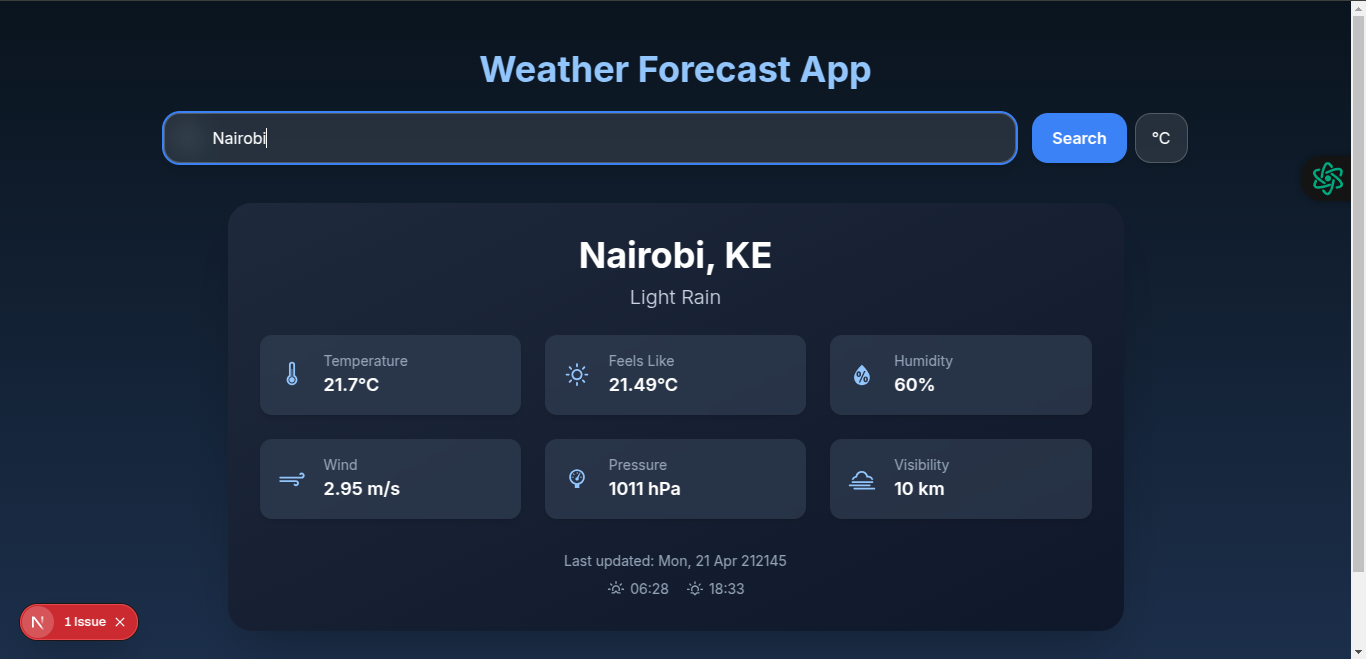
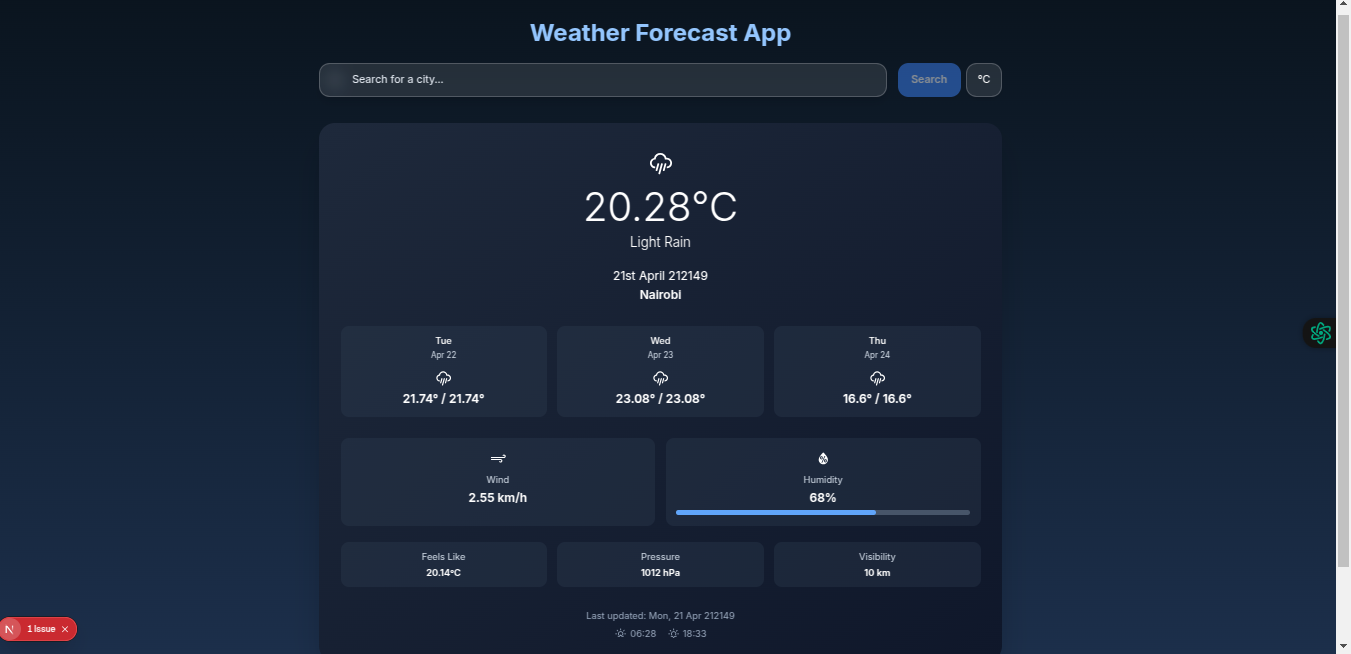
updates

diff --git a/frontend/src/components/ui/WeatherDisplay.tsx b/frontend/src/components/ui/WeatherDisplay.tsx
@@ -1,12 +1,16 @@
 import {
-  WiThermometer,
+  WiDaySunny,
   WiStrongWind,
   WiHumidity,
-  WiBarometer,
-  WiDaySunny,
+  WiRain,
+  WiCloudy,
+  WiDayCloudyHigh,
+  WiNightClear,
+  WiDayHaze,
+  WiSnow,
+  WiThunderstorm,
   WiSunrise,
   WiSunset,
-  WiFog,
 } from "react-icons/wi";
 import type { WeatherResponse } from "@/types";
 
@@ -15,50 +19,121 @@ type Props = {
 };
 
 export default function WeatherDisplay({ weatherData }: Props) {
-  const { current, location } = weatherData;
+  const { current, location, forecast } = weatherData;
+
+  // Function to get weather icon based on condition
+  const getWeatherIcon = (condition: string, size = 48) => {
+    const conditionLower = condition.toLowerCase();
+    if (conditionLower.includes("clear")) return <WiDaySunny size={size} />;
+    if (conditionLower.includes("rain")) return <WiRain size={size} />;
+    if (conditionLower.includes("cloud")) return <WiCloudy size={size} />;
+    if (conditionLower.includes("partly cloudy"))
+      return <WiDayCloudyHigh size={size} />;
+    if (conditionLower.includes("haze") || conditionLower.includes("mist"))
+      return <WiDayHaze size={size} />;
+    if (conditionLower.includes("snow")) return <WiSnow size={size} />;
+    if (conditionLower.includes("thunder"))
+      return <WiThunderstorm size={size} />;
+    return <WiNightClear size={size} />;
+  };
+
+  // Format date as "21st April 2024"
+  const formatDate = (dateString: string) => {
+    const date = new Date(dateString);
+    const day = date.getDate();
+    const month = date.toLocaleString("default", { month: "long" });
+    const year = date.getFullYear();
+
+    // Add ordinal suffix to day
+    const ordinal = (n: number) => {
+      const s = ["th", "st", "nd", "rd"];
+      const v = n % 100;
+      return n + (s[(v - 20) % 10] || s[v] || s[0]);
+    };
+
+    return `${ordinal(day)} ${month} ${year}`;
+  };
 
   return (
-    <div className="mt-8 rounded-3xl p-8 bg-gradient-to-br from-slate-800 to-slate-900 text-white shadow-2xl max-w-4xl mx-auto animate-fade-in-up">
-      <h2 className="text-4xl font-bold text-center mb-2">
-        {location.city}, {location.country}
-      </h2>
-      <p className="text-center text-xl font-light text-slate-300 mb-6 capitalize">
-        {current.description}
-      </p>
+    <div className="rounded-3xl p-8 bg-gradient-to-br from-slate-800 to-slate-900 text-white shadow-2xl w-full max-w-5xl mx-auto animate-fade-in-up">
+      <div className="flex flex-col items-center mb-8">
+        <div className="text-5xl mb-4">
+          {getWeatherIcon(current.description)}
+        </div>
+        <div className="text-6xl font-light mb-2">{current.temperature}°C</div>
 
-      <div className="grid grid-cols-2 md:grid-cols-3 gap-6 text-base">
-        <WeatherCard
-          icon={<WiThermometer size={32} />}
-          label="Temperature"
-          value={`${current.temperature}°C`}
-        />
-        <WeatherCard
-          icon={<WiDaySunny size={32} />}
-          label="Feels Like"
-          value={`${current.feelsLike}°C`}
-        />
-        <WeatherCard
-          icon={<WiHumidity size={32} />}
-          label="Humidity"
-          value={`${current.humidity}%`}
-        />
-        <WeatherCard
-          icon={<WiStrongWind size={32} />}
-          label="Wind"
-          value={`${current.windSpeed} m/s`}
-        />
-        <WeatherCard
-          icon={<WiBarometer size={32} />}
-          label="Pressure"
-          value={`${current.pressure} hPa`}
-        />
-        <WeatherCard
-          icon={<WiFog size={32} />}
-          label="Visibility"
-          value={`${current.visibility / 1000} km`}
-        />
+        <div className="text-xl font-light mb-6 capitalize">
+          {current.description}
+        </div>
+
+        <div className="text-lg text-center">
+          <div>{formatDate(current.formattedDate)}</div>
+          <div className="font-semibold">{location.city}</div>
+        </div>
       </div>
 
+      <div className="grid grid-cols-3 gap-4 mb-8 text-center">
+        {forecast.slice(0, 3).map((day, index) => (
+          <div key={index} className="bg-slate-700/30 rounded-xl p-3">
+            <div className="text-sm font-medium mb-1">
+              {new Date(day.date).toLocaleDateString("en", {
+                weekday: "short",
+              })}
+            </div>
+            <div className="text-xs text-slate-300 mb-2">
+              {new Date(day.date).toLocaleDateString("en", {
+                month: "short",
+                day: "numeric",
+              })}
+            </div>
+            <div className="flex justify-center mb-1">
+              {getWeatherIcon(day.description, 32)}
+            </div>
+            <div className="text-lg font-semibold">
+              {day.tempMax}° / {day.tempMin}°
+            </div>
+          </div>
+        ))}
+      </div>
+
+      <div className="grid grid-cols-2 gap-4 mb-6">
+        <div className="bg-slate-700/30 rounded-xl p-4 text-center">
+          <div className="flex justify-center mb-2">
+            <WiStrongWind size={28} />
+          </div>
+          <div className="text-sm text-slate-300 mb-1">Wind</div>
+          <div className="text-lg font-semibold">{current.windSpeed} km/h</div>
+        </div>
+
+        <div className="bg-slate-700/30 rounded-xl p-4 text-center">
+          <div className="flex justify-center mb-2">
+            <WiHumidity size={28} />
+          </div>
+          <div className="text-sm text-slate-300 mb-1">Humidity</div>
+          <div className="text-lg font-semibold mb-1">{current.humidity}%</div>
+          <div className="w-full bg-slate-600 rounded-full h-2">
+            <div
+              className="bg-blue-400 h-2 rounded-full"
+              style={{ width: `${current.humidity}%` }}
+            ></div>
+          </div>
+        </div>
+      </div>
+
+      <div className="grid grid-cols-3 gap-4 text-sm">
+        <div className="bg-slate-700/30 rounded-xl p-3 text-center">
+          <div className="text-slate-300 mb-1">Feels Like</div>
+          <div className="font-semibold">{current.feelsLike}°C</div>
+        </div>
+        <div className="bg-slate-700/30 rounded-xl p-3 text-center">
+          <div className="text-slate-300 mb-1">Pressure</div>
+          <div className="font-semibold">{current.pressure} hPa</div>
+        </div>
+        <div className="bg-slate-700/30 rounded-xl p-3 text-center">
+          <div className="text-slate-300 mb-1">Visibility</div>
+          <div className="font-semibold">{current.visibility / 1000} km</div>
+        </div>
+      </div>
       <div className="mt-8 text-center text-sm text-slate-400">
         <p>Last updated: {current.formattedDate}</p>
         <p className="flex items-center justify-center gap-4 mt-2">
@@ -69,26 +144,6 @@ export default function WeatherDisplay({ weatherData }: Props) {
             <WiSunset size={20} /> {current.formattedSunset}
           </span>
         </p>
-      </div>
-    </div>
-  );
-}
-
-function WeatherCard({
-  icon,
-  label,
-  value,
-}: {
-  icon: React.ReactNode;
-  label: string;
-  value: string;
-}) {
-  return (
-    <div className="flex items-center gap-4 p-4 rounded-xl bg-slate-700/60 backdrop-blur-md shadow-md">
-      <div className="text-primary-300">{icon}</div>
-      <div>
-        <div className="text-sm text-slate-400">{label}</div>
-        <div className="text-lg font-semibold">{value}</div>
       </div>
     </div>
   );

diff --git a/frontend/src/app/page.tsx b/frontend/src/app/page.tsx
@@ -13,7 +13,7 @@ export default function Home() {
 
   useEffect(() => {
     if (!weatherData && !isLoading && !error) {
-      const defaultCity = "London";
+      const defaultCity = "Nairobi";
       setCity(defaultCity);
       searchCity(defaultCity);
     }
